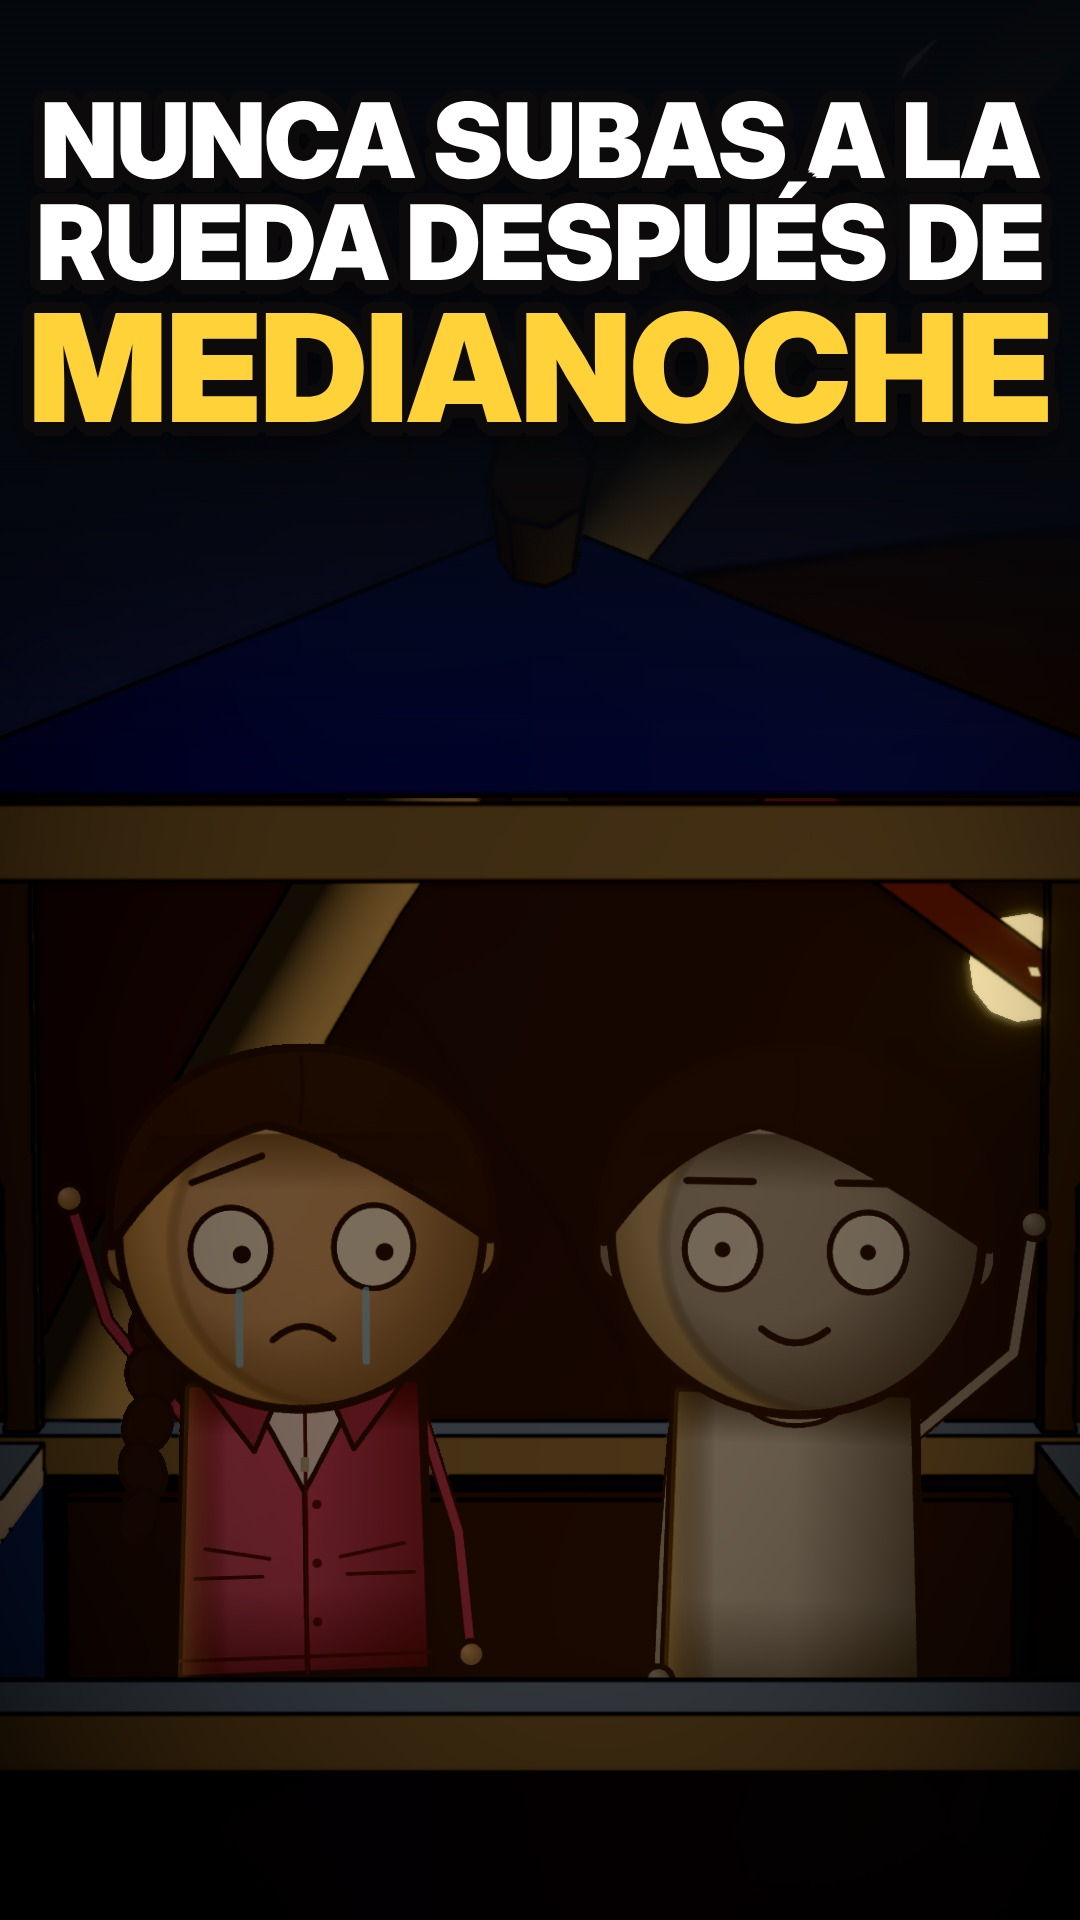
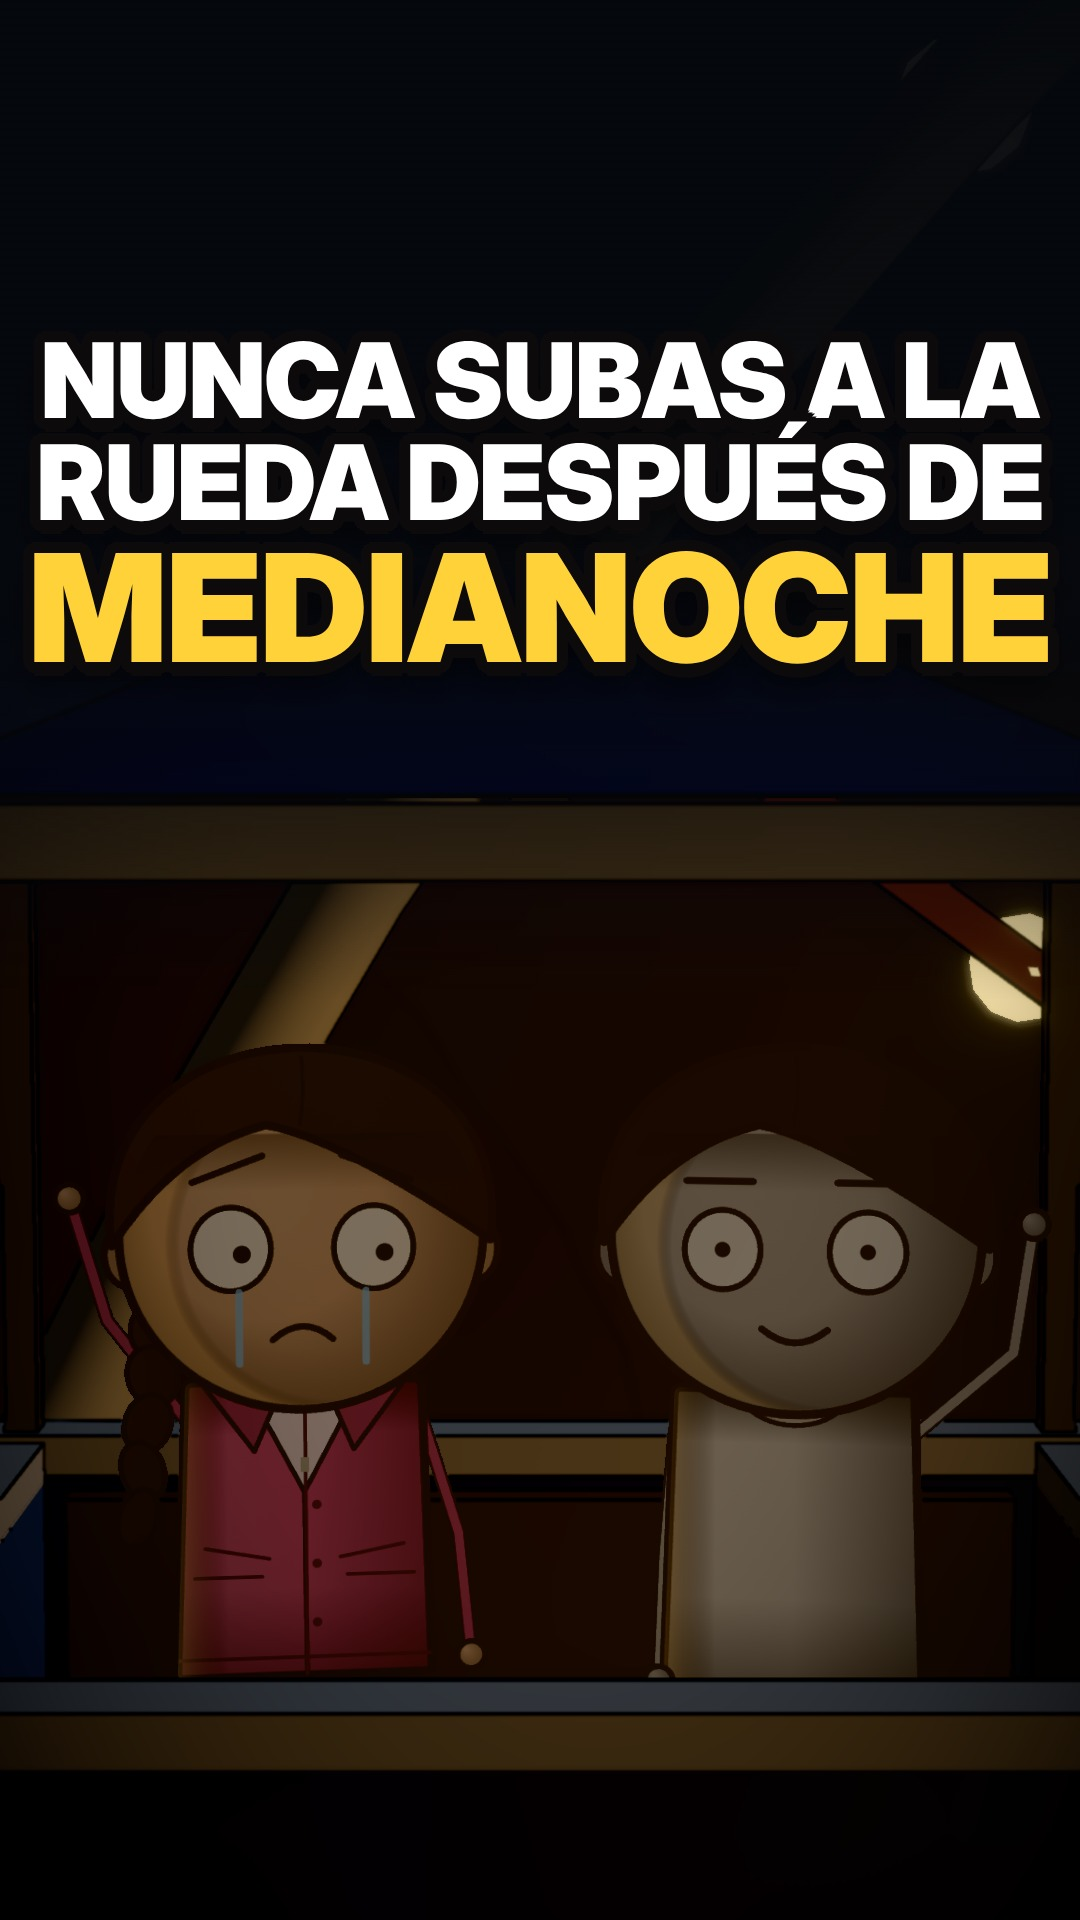
Feria: título de la portada más abajo (pedido del usuario)
Claude-Session: https://claude.ai/code/session_01SfrS7iHrNNXnU1QEHdPfrg

Changed region(s): [[0.0306, 0.0312, 0.9778, 0.375], [0.2444, 0.4062, 0.9167, 0.4688], [0.9167, 0.4688, 0.9778, 0.5]]

diff --git a/caricatura3d/src/videos/feria/Feria.tsx b/caricatura3d/src/videos/feria/Feria.tsx
@@ -452,8 +452,8 @@ export const FeriaPortada: React.FC = () => {
   return (
     <AbsoluteFill style={{ background: "#05080d" }}>
       <Lienzo3D portada />
-      <div style={{ position: "absolute", top: 0, width: "100%", height: 760, background: "linear-gradient(#05080dee 55%, #05080d00)" }} />
-      <div style={{ position: "absolute", top: 90, width: "100%", textAlign: "center" }}>
+      <div style={{ position: "absolute", top: 0, width: "100%", height: 1000, background: "linear-gradient(#05080dee 62%, #05080d00)" }} />
+      <div style={{ position: "absolute", top: 330, width: "100%", textAlign: "center" }}>
         {linea("NUNCA SUBAS A LA", "#ffffff", 104)}
         {linea("RUEDA DESPUÉS DE", "#ffffff", 104)}
         {linea("MEDIANOCHE", "#ffd23a", 150)}
